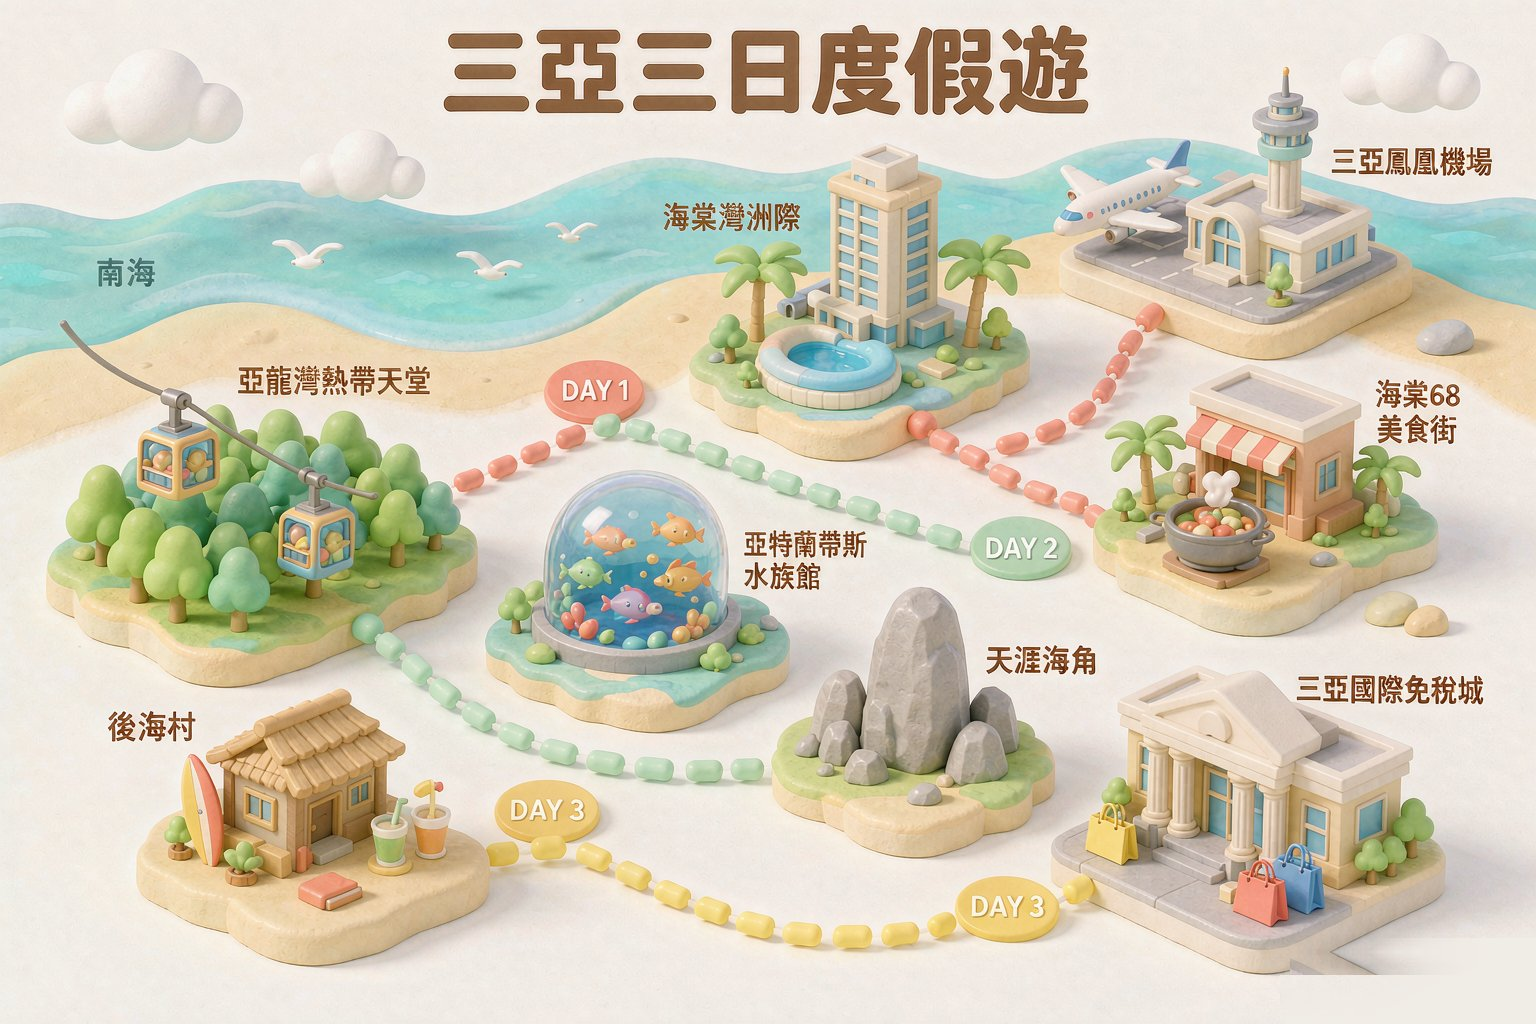
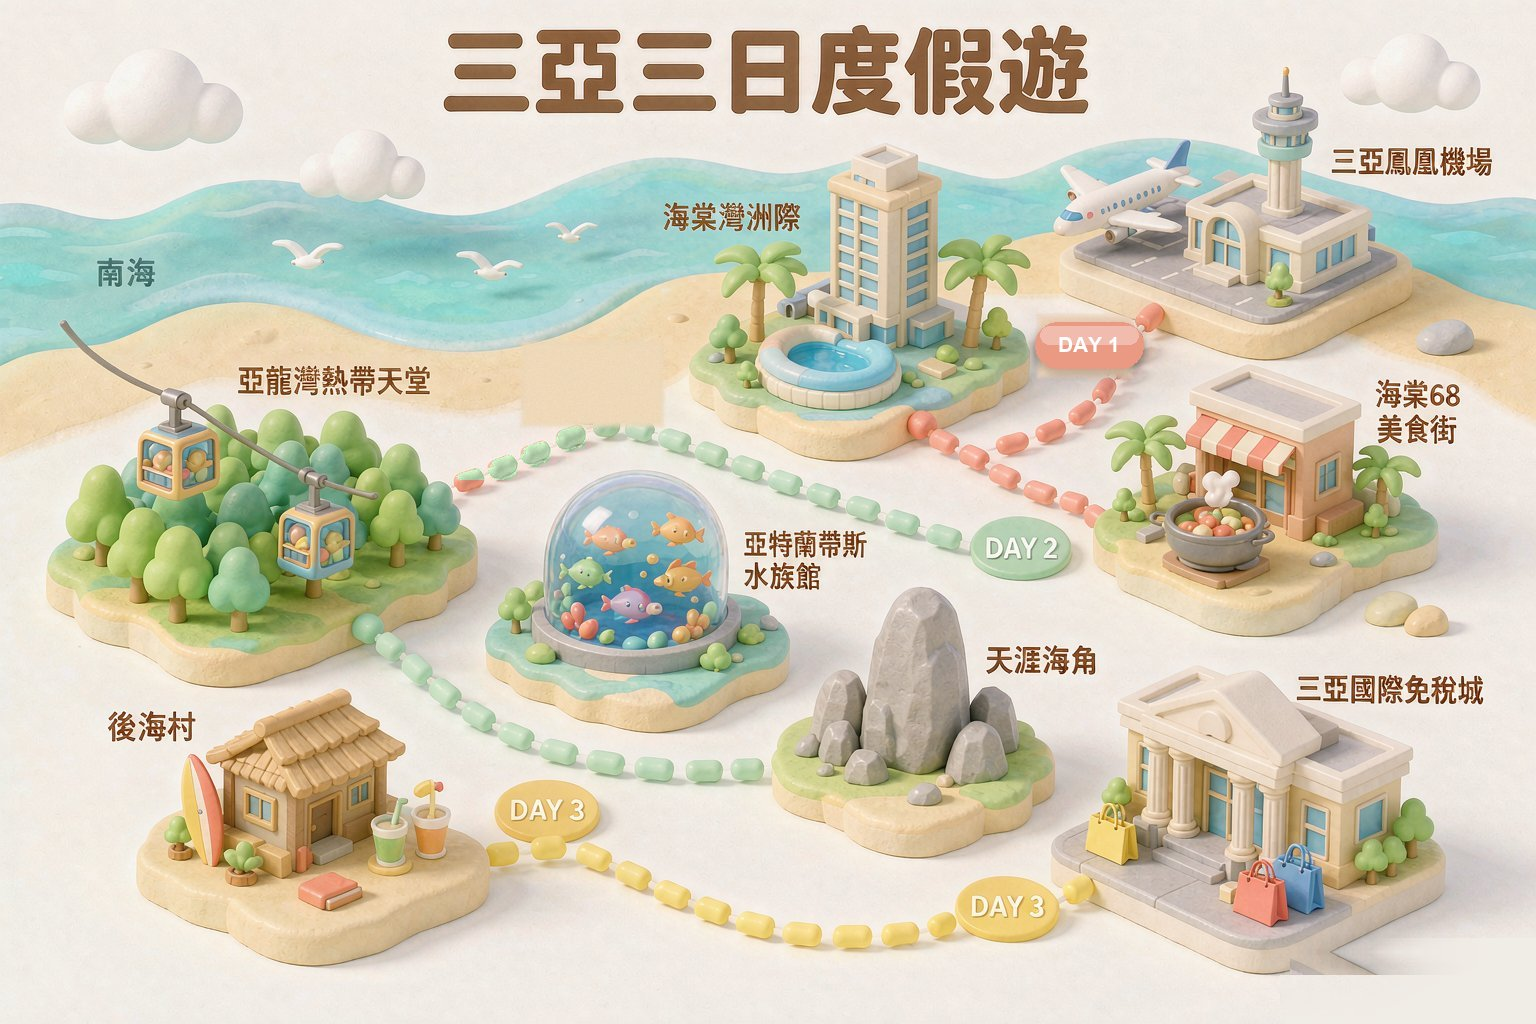
Sanya: fix map route semantics - Yalong leg recolored to Day 2 mint, DAY 1 tag moved to airport leg

Changed region(s): [[0.2812, 0.3438, 0.4375, 0.4688], [0.6562, 0.2812, 0.75, 0.375]]

diff --git a/sanya/assets/cartoon-preview/fix_day1_tag.py b/sanya/assets/cartoon-preview/fix_day1_tag.py
@@ -1,0 +1,97 @@
+# -*- coding: utf-8 -*-
+"""H 地圖路線修正 v3：
+- 放寬珊瑚紅遮罩（含飯店陰影下的圓點）
+- 擦除區改用周圍取樣中位色 + 高斯噪點，消除色塊感
+- 重畫 DAY 1 標籤於斜線段
+"""
+from PIL import Image, ImageDraw, ImageFont, ImageFilter
+import numpy as np
+
+rng = np.random.default_rng(7)
+im = Image.open('backup/H_iso_no_wm.png').convert('RGB')  # v2 狀態（含部分修正）
+arr = np.array(im).astype(np.float64)
+
+
+def coral_mask(a, loose=False):
+    r, g, b = a[..., 0], a[..., 1], a[..., 2]
+    if loose:
+        return (r > 185) & (r - g > 38) & (g < 185) & (b < 178)
+    return (r > 200) & (g > 60) & (g < 165) & (b > 60) & (b < 165) & (r - g > 55)
+
+
+def mint_mask(a):
+    r, g, b = a[..., 0], a[..., 1], a[..., 2]
+    return (g > 160) & (r < 185) & (g - r > 22) & (g - b > 3)
+
+
+# ---- 取樣 ----
+coral_reg = arr[410:442, 900:940]
+coral_avg = coral_reg[coral_mask(coral_reg)].mean(axis=0)
+mint_reg = arr[462:492, 700:780]
+mint_avg = mint_reg[mint_mask(mint_reg)].mean(axis=0)
+print('coral_avg', coral_avg.round(1), 'mint_avg', mint_avg.round(1))
+
+# 舊標籤底色：取區域四周細條中位數（標籤已於 v2 被平塗覆蓋，改從更外圈取）
+ring1 = np.concatenate([
+    arr[330:336, 520:665].reshape(-1, 3),
+    arr[340:428, 508:516].reshape(-1, 3),
+    arr[340:428, 667:675].reshape(-1, 3),
+    arr[428:434, 520:665].reshape(-1, 3),
+])
+bg1 = np.median(ring1, axis=0)
+# 斜線段底色（避開標籤與圓點，取更上方與右側）
+ring2 = np.concatenate([
+    arr[300:306, 1035:1135].reshape(-1, 3),
+    arr[312:380, 1137:1145].reshape(-1, 3),
+])
+bg2 = np.median(ring2, axis=0)
+print('bg1', bg1.round(1), 'bg2', bg2.round(1))
+
+tag_color = np.array([234.2, 152.6, 129.8])  # v2 已取樣
+
+
+def textured_fill(a, x0, y0, x1, y1, color, feather=8, noise=2.5):
+    h, w = y1 - y0, x1 - x0
+    yy, xx = np.mgrid[0:h, 0:w]
+    d = np.minimum(np.minimum(xx, w - 1 - xx), np.minimum(yy, h - 1 - yy)).astype(np.float64)
+    alpha = np.clip(d / feather, 0, 1)[..., None]
+    fill = color[None, None, :] + rng.normal(0, noise, (h, w, 3))
+    zone = a[y0:y1, x0:x1]
+    a[y0:y1, x0:x1] = np.clip(zone * (1 - alpha) + fill * alpha, 0, 255)
+
+
+# ---- 1) 補改色（放寬遮罩，涵蓋陰影中的圓點）----
+x0, y0, x1, y1 = 425, 400, 830, 480
+zone = arr[y0:y1, x0:x1]
+m = coral_mask(zone, loose=True) & ~mint_mask(zone)
+ratio = zone.mean(axis=-1, keepdims=True) / (coral_avg.mean() + 1e-6)
+zone[m] = np.clip(mint_avg[None, None, :] * ratio, 0, 255)[m]
+arr[y0:y1, x0:x1] = zone
+print('recolored px:', int(m.sum()))
+
+# ---- 2) 兩個擦除區重填（含紋理）----
+textured_fill(arr, 518, 338, 667, 430, bg1)
+textured_fill(arr, 1035, 312, 1135, 380, bg2)
+
+# ---- 3) 重畫 DAY 1 標籤 ----
+out = Image.fromarray(arr.astype(np.uint8)).convert('RGBA')
+shadow = Image.new('RGBA', out.size, (0, 0, 0, 0))
+ImageDraw.Draw(shadow).rounded_rectangle([1035, 326, 1143, 372], radius=23, fill=(60, 45, 35, 70))
+shadow = shadow.filter(ImageFilter.GaussianBlur(4))
+out = Image.alpha_composite(out, shadow)
+
+draw = ImageDraw.Draw(out, 'RGBA')
+tc = tuple(int(round(c)) for c in tag_color)
+draw.rounded_rectangle([1035, 322, 1143, 368], radius=23, fill=tc + (255,))
+hl = tuple(min(255, int(round(c + (255 - c) * 0.35))) for c in tag_color)
+draw.rounded_rectangle([1040, 326, 1138, 344], radius=9, fill=hl + (110,))
+font = ImageFont.truetype('C:/Windows/Fonts/arialbd.ttf', 21)
+tb = draw.textbbox((0, 0), 'DAY 1', font=font)
+tw, th = tb[2] - tb[0], tb[3] - tb[1]
+draw.text((1089 - tw / 2 - tb[0], 345 - th / 2 - tb[1]), 'DAY 1', font=font, fill=(255, 255, 255, 255))
+
+rgb = out.convert('RGB')
+rgb.save('backup/H_iso_no_wm.png')
+rgb.save('H_iso_web.jpg', 'JPEG', quality=85, optimize=True, progressive=True)
+rgb.crop((400, 300, 1250, 560)).save('_chkE.png')
+print('saved')
